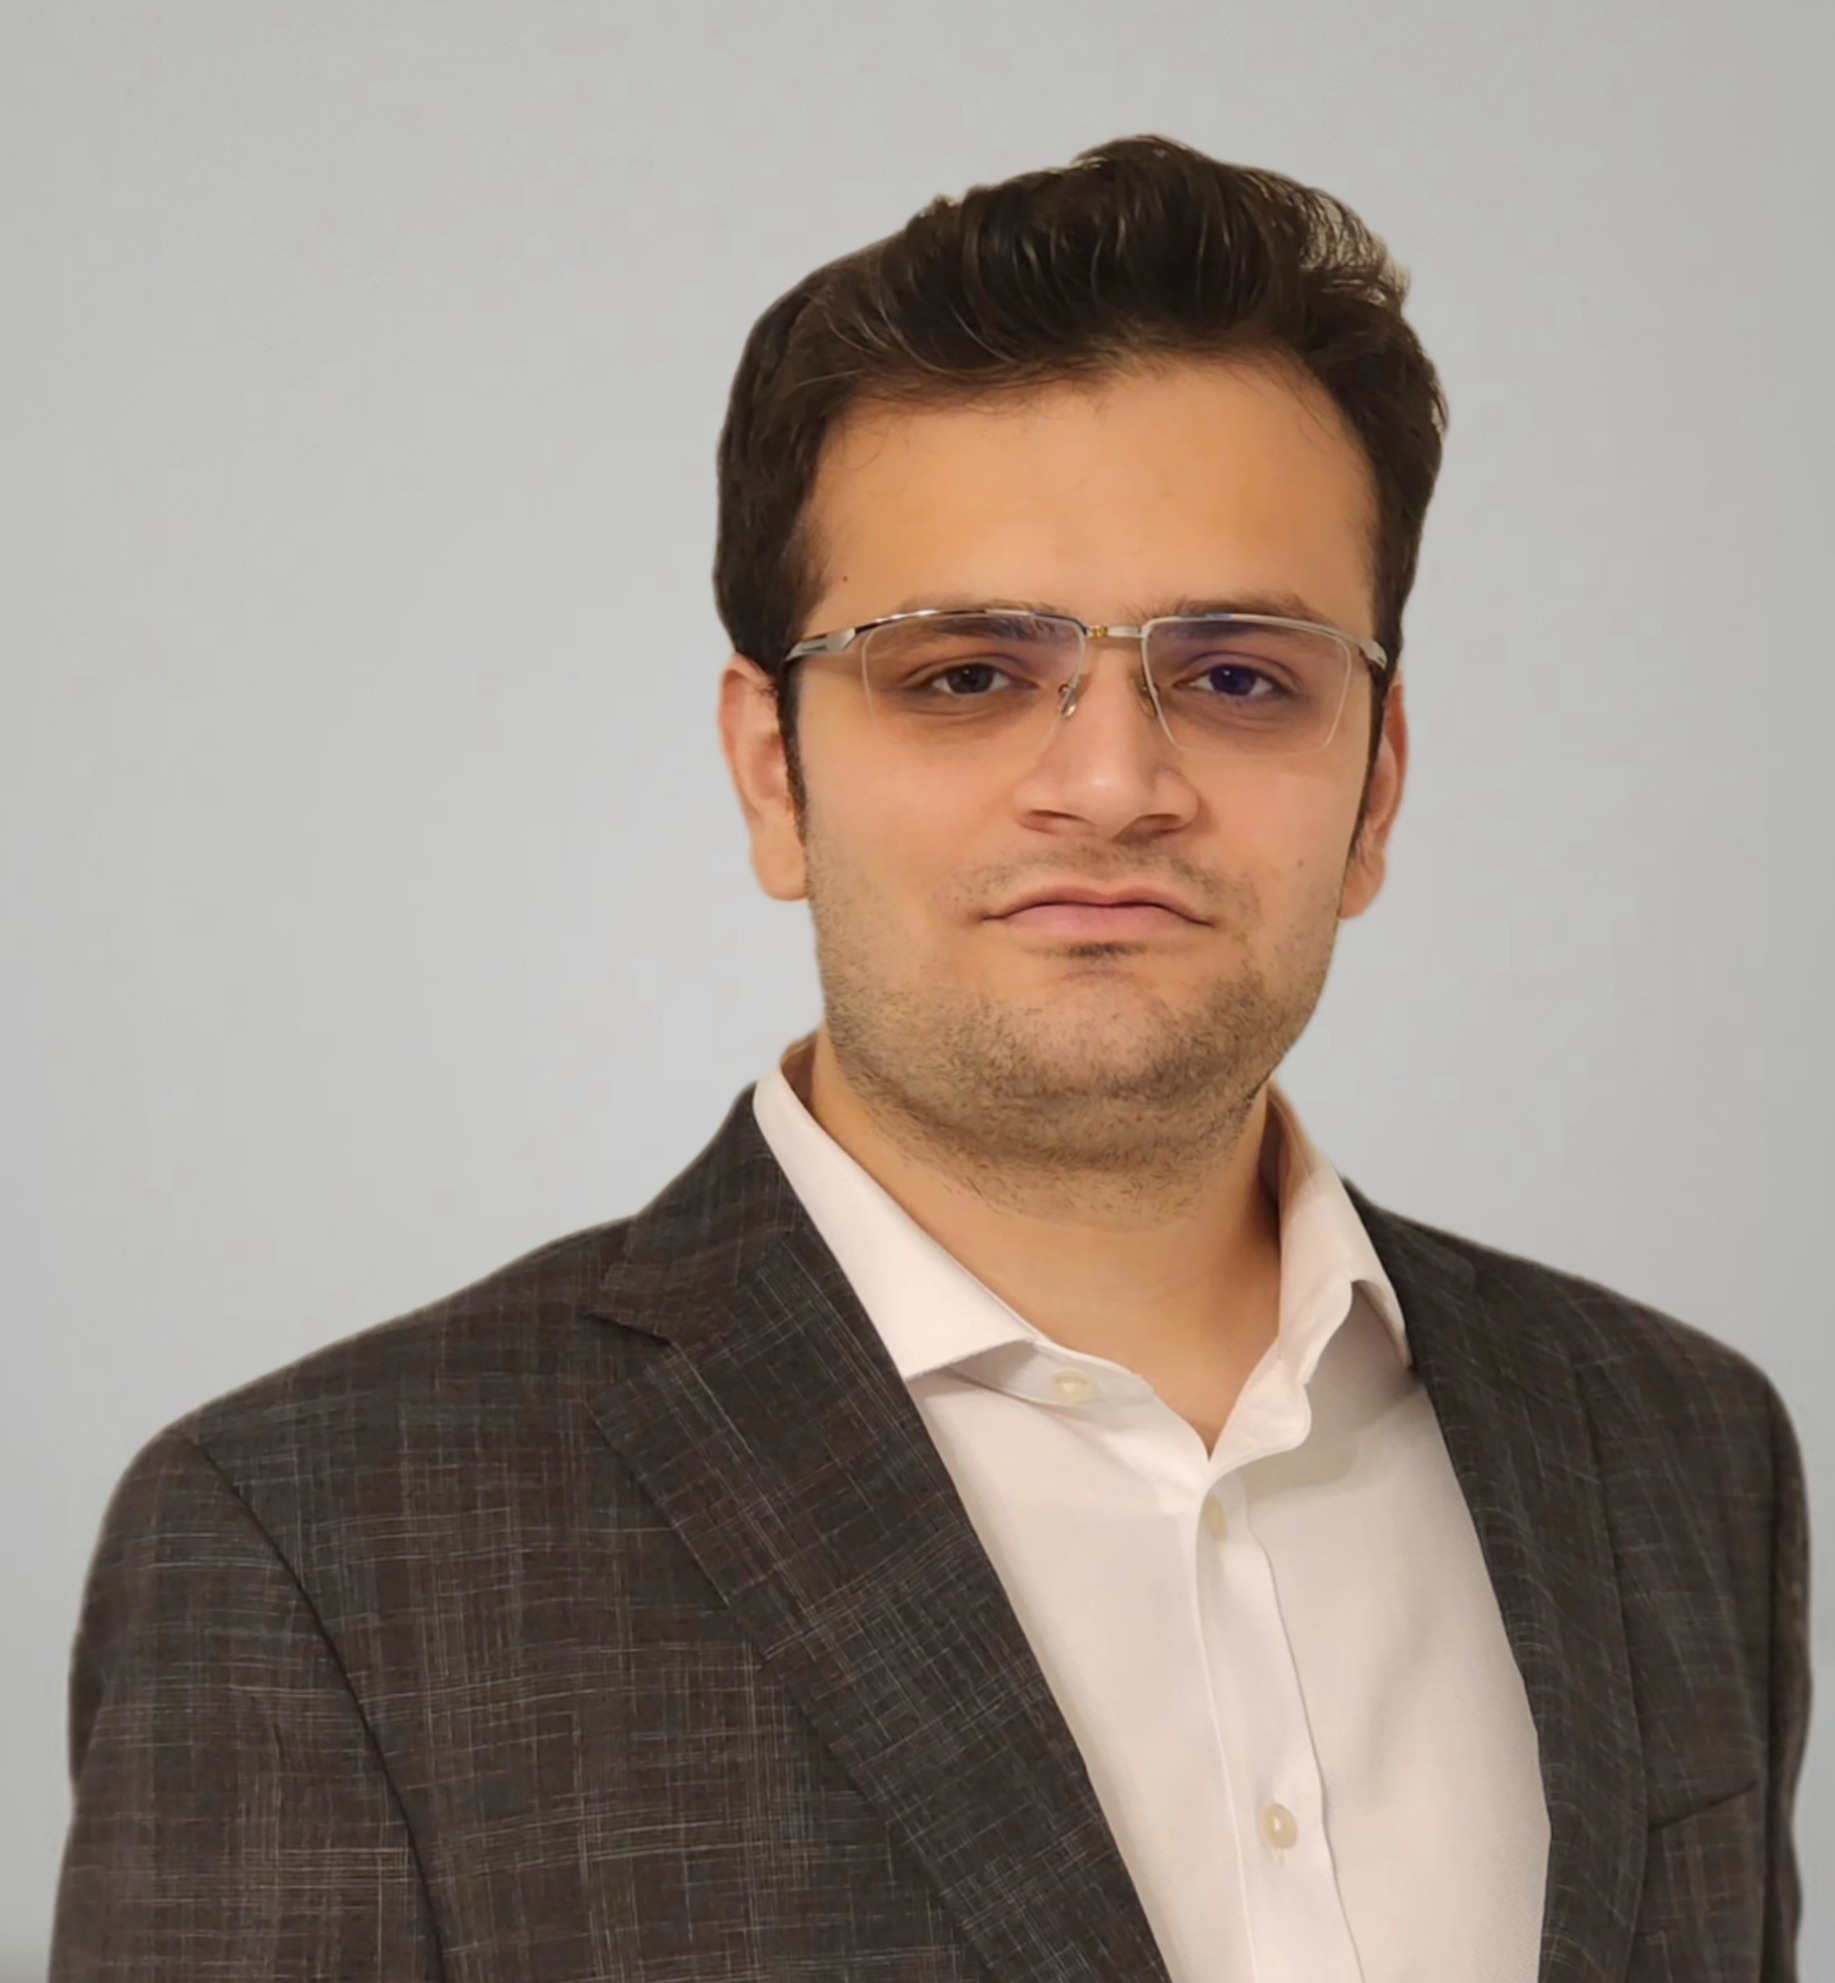
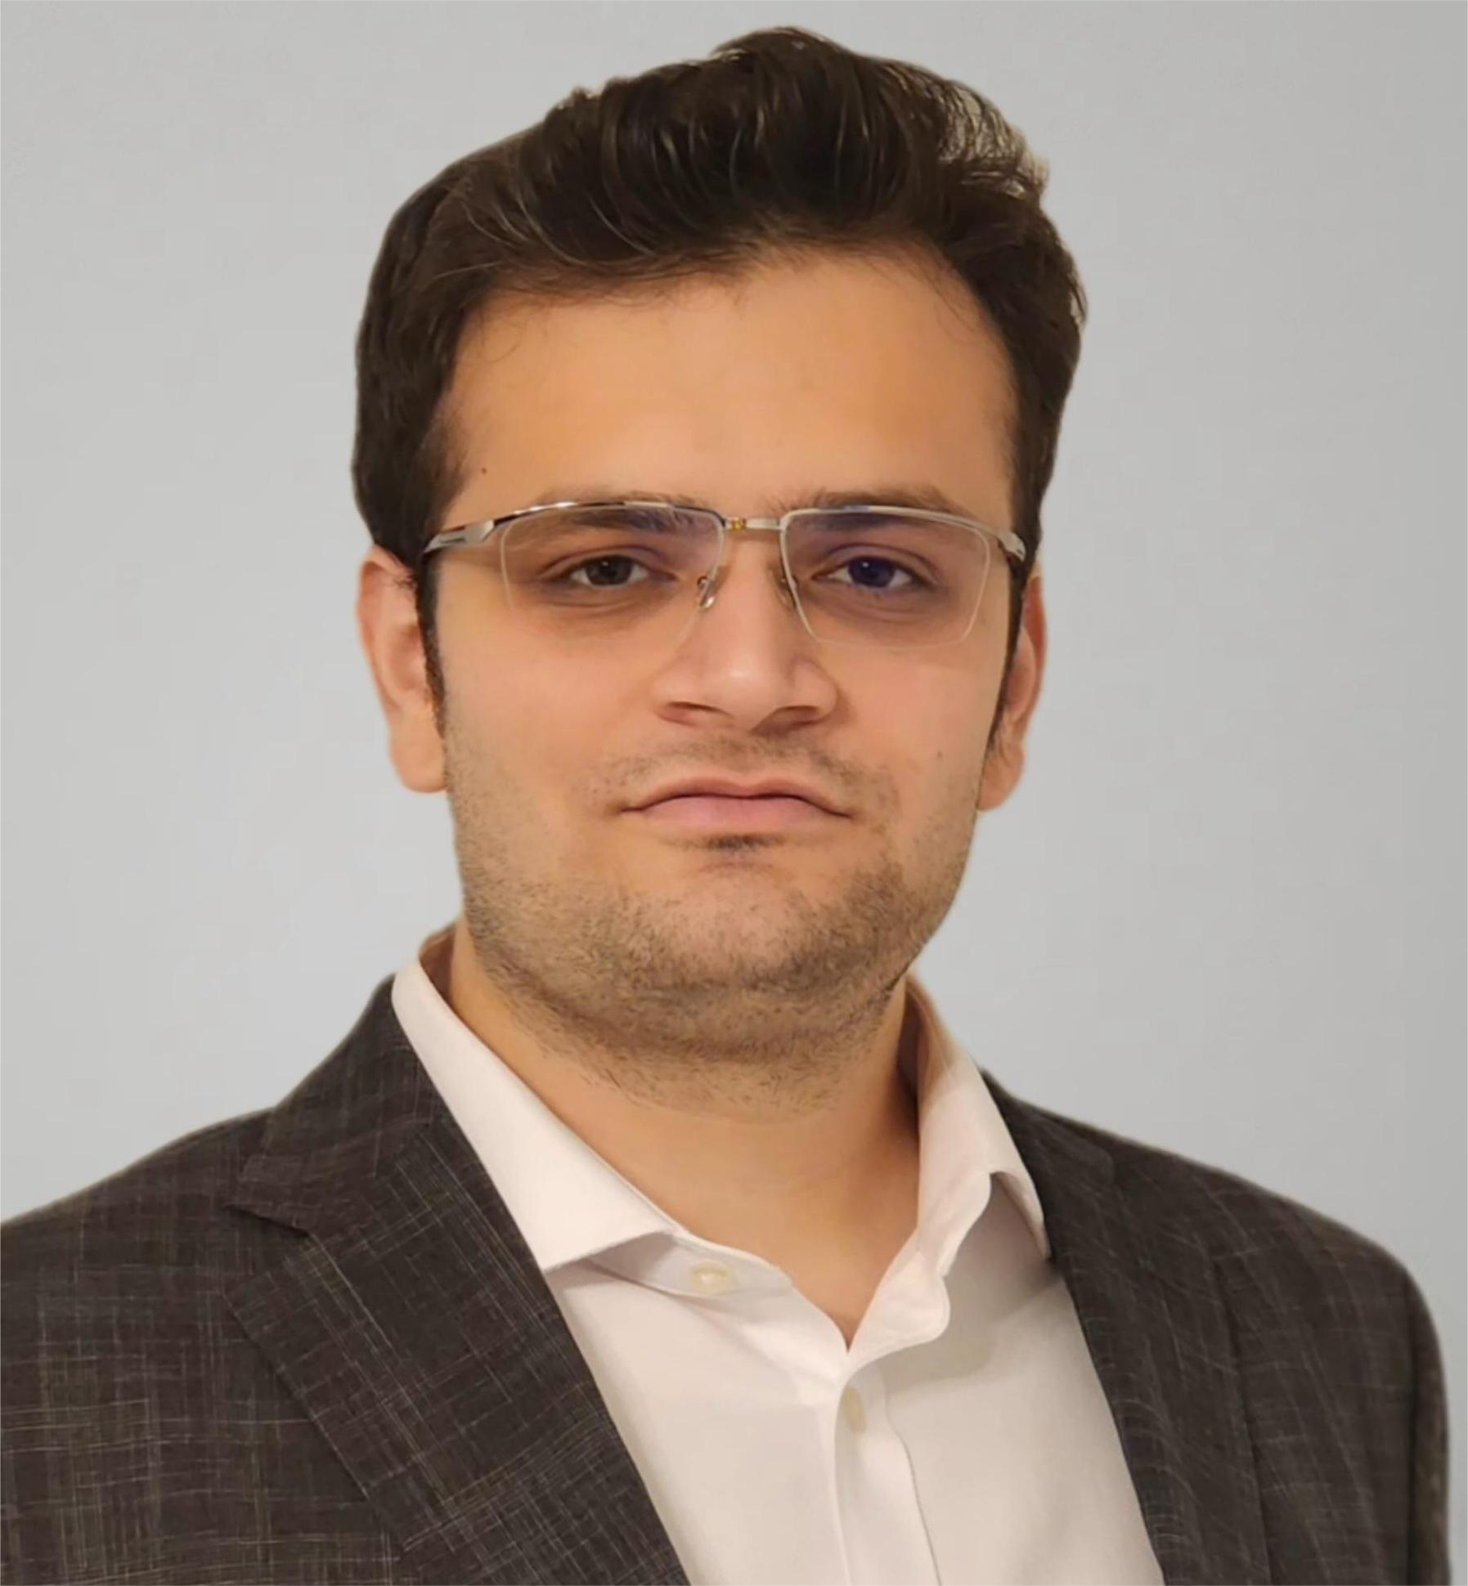
udpates

diff --git a/docs/index.html b/docs/index.html
@@ -48,14 +48,14 @@
     <section id="about" class="about-section">
         <h2>About Me</h2>
         <div class="about-container">
-            <img src="img/profile-photo-1.jpg" alt="Shiv Vyas" class="about-pic">
+            <img src="img/profile-photo.png" alt="Shiv Vyas" class="about-pic">
             <div class="about-text">
                 <p>Hello there, and welcome! 🌟</p>
                 <p>I'm Shiv Vyas— an Engineer and (as Barney Stinson would say) *wait for it* ... a start-up founder who learned the hard way that designing affordable vehicle security systems can be so secure, they even lock out success! 🛡🚗<br>
                     But every journey has its plot twists, and mine is filled with errors and ambition.</p>
                 <p>My passion lies in developing intelligent systems that make a real-world impact. Whether I'm crafting AI models or executing a Queen's Gambit in chess, I love playing with algorithms.</p>
                 <p>My two constants: <strong>Tea & Python</strong></p>
-                <p><br> I live by the words:<br><strong><em>"Somewhere, something incredible is waiting to be known."</em></strong><br> -Carl Sagan</p>
+                <p>I live by the words:<br><strong><em>"Somewhere, something incredible is waiting to be known."</em></strong><br> -Carl Sagan</p>
                 <p>If you're passionate about technology, innovation, astrophysics or enjoy the occasional startup war story, let’s connect! <a href="#contact">Contact Me</a> | <a href="https://www.linkedin.com/in/shiv-vyas/" target="_blank">LinkedIn</a></p>
                 <p><strong><highlight>P.S. I’m not the best web developer, so if something looks off... it’s not a bug; it’s a feature! 😉</highlight></strong></p>
             </div>
